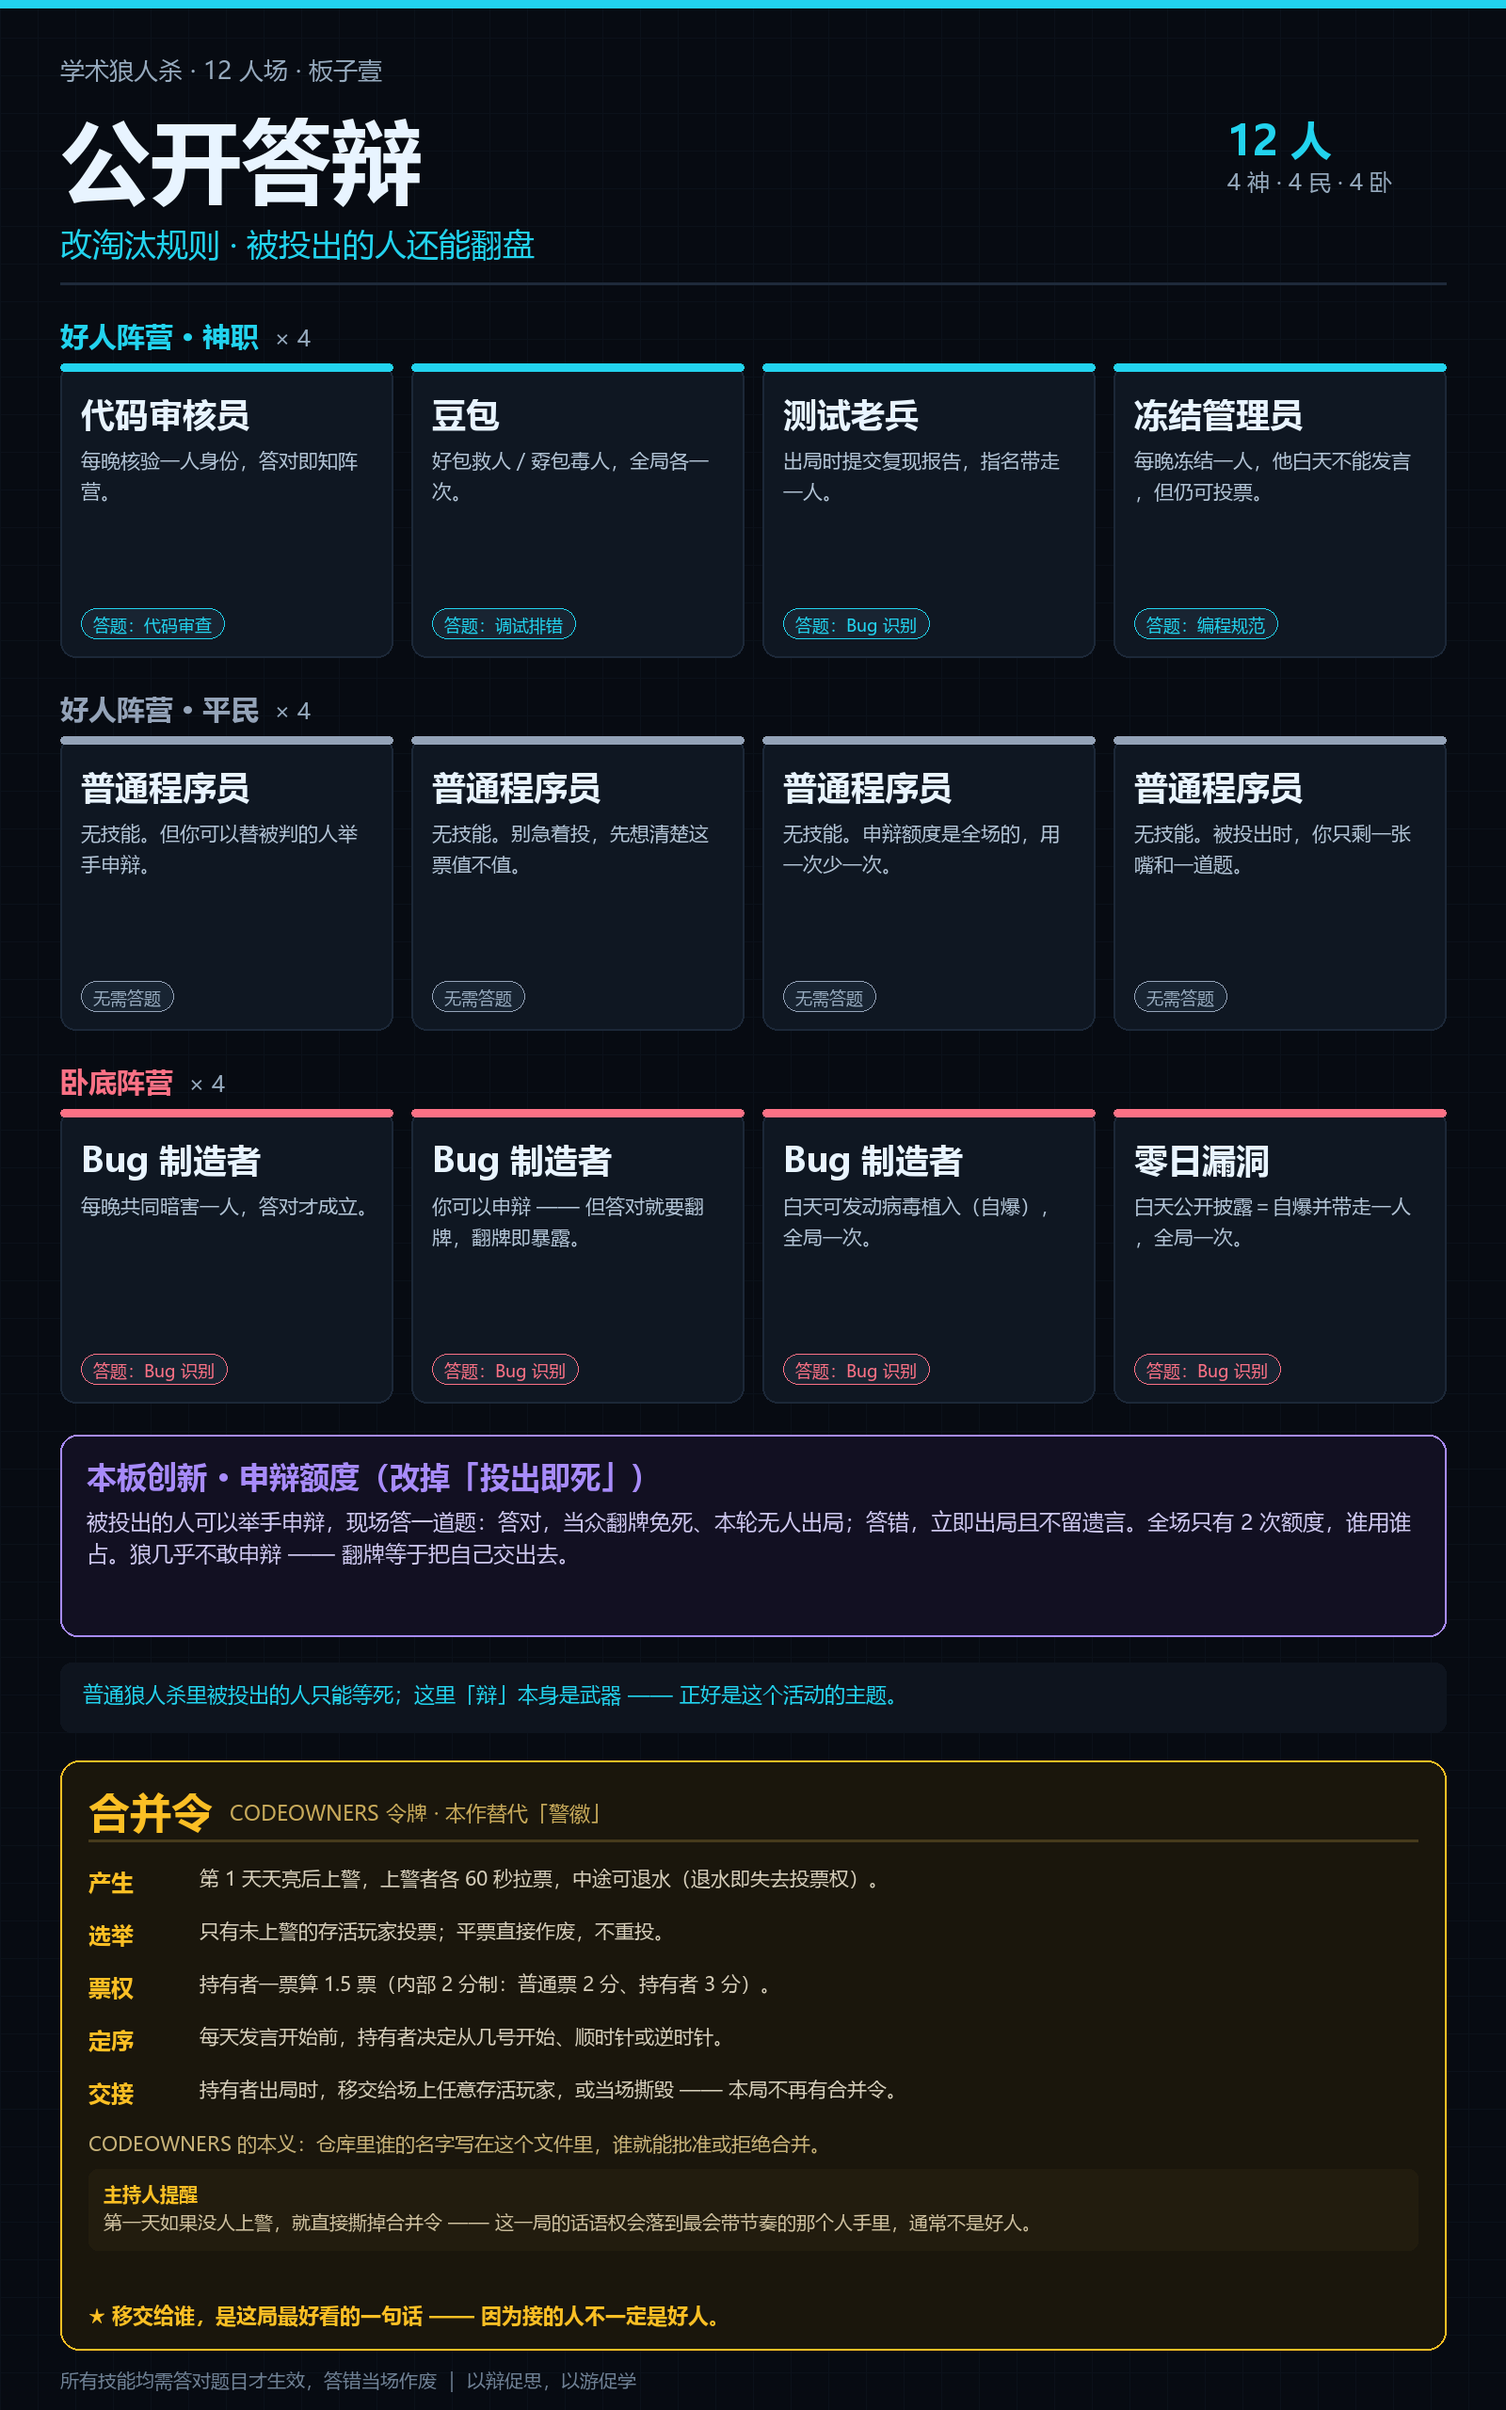
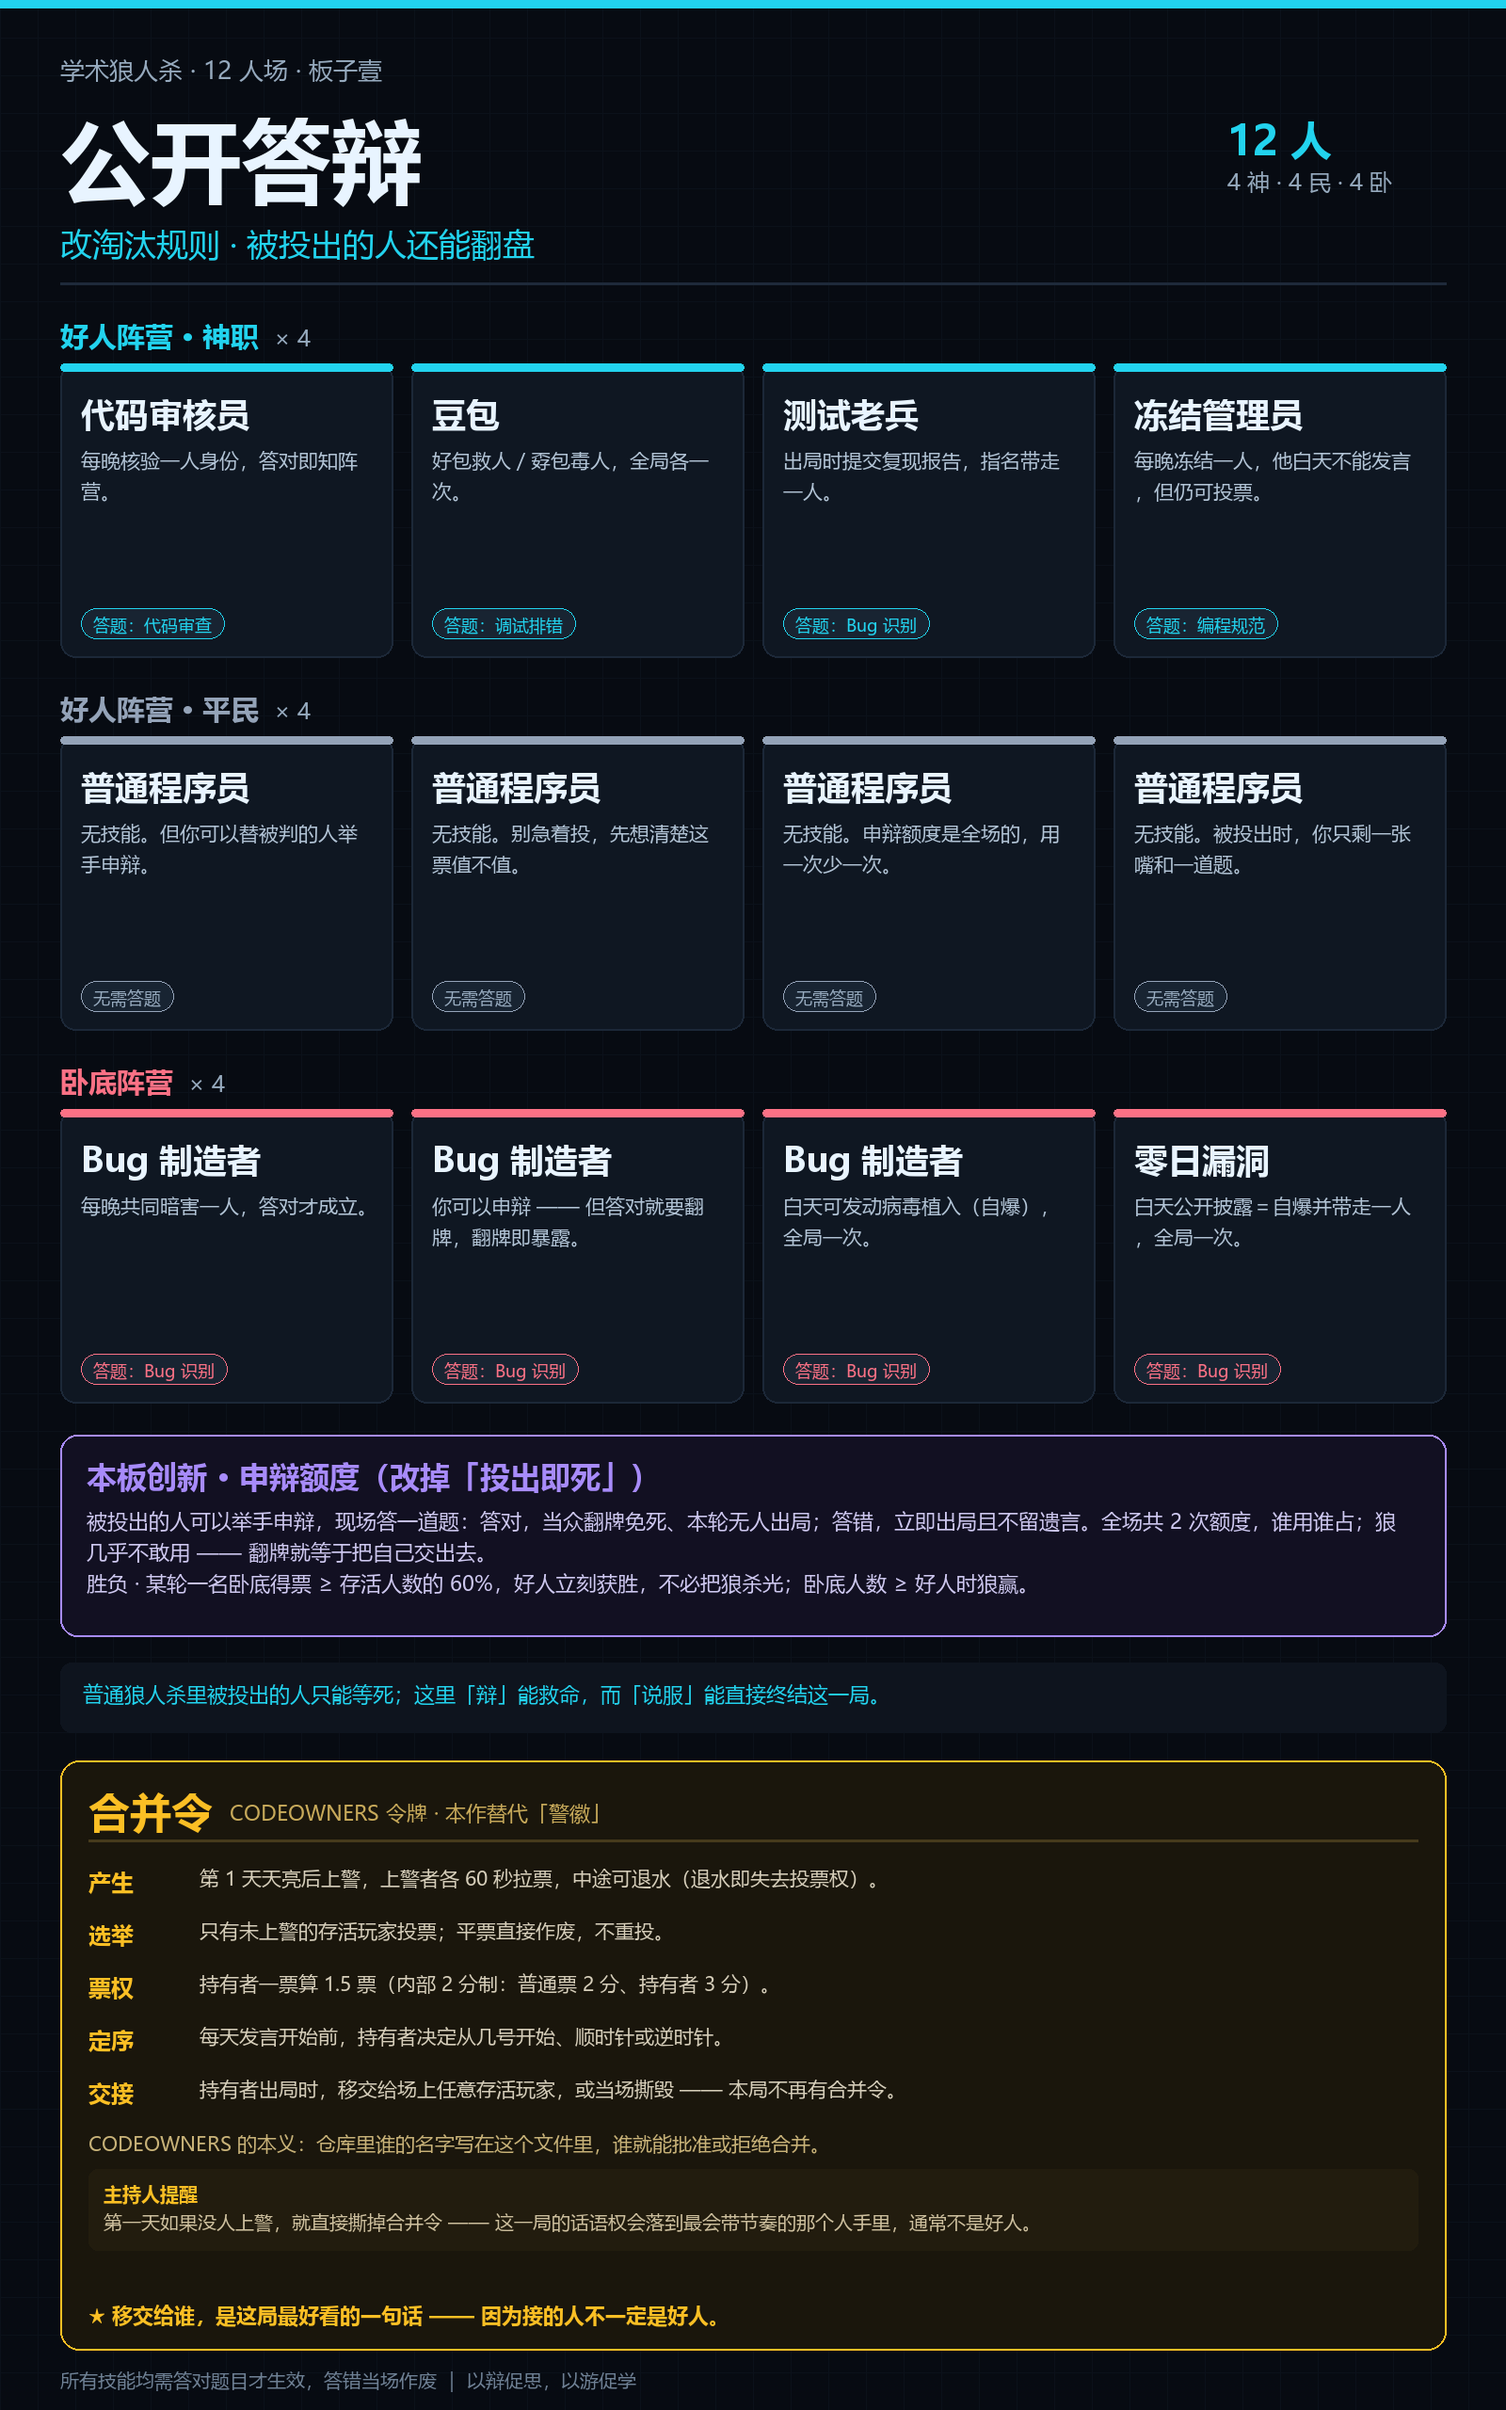
feat: 四套板子各给一条不同的胜负判定 + 修模块边界的刀规则
- 公开答辩: 某轮某狼得票 >=60% 存活人数即胜（共识碾压）
- 后门植入: 好人须清掉全部卧底+被植入者；被植入者活到第5天狼赢
- 模块边界: 连续两轮投出卧底才赢；刀同模块答1题、跨模块连答2题（不再限制刀不了人）
- 核心业务(娱乐场): 屠边

Changed region(s): [[0.0625, 0.625, 0.9375, 0.6562], [0.3438, 0.6875, 0.5938, 0.7188]]

diff --git a/docs/12人场三套板子.md b/docs/12人场三套板子.md
@@ -21,6 +21,19 @@
 
 底层不变的部分：12 人 = 4 神 4 民 4 卧；所有技能必须答对题才生效；共用一枚**合并令**（见文末）。
 
+### 四套的胜负判定各不相同
+
+这一点比角色更重要 —— 如果四套都靠"杀光对面"分胜负，那还是同一款游戏。所以每套给了一条自己的赢法：
+
+| 板子 | 好人怎么赢 | 狼怎么赢 |
+|---|---|---|
+| **公开答辩** | 某一轮里，一名卧底拿到 **≥ 存活人数 60%** 的票 → 立刻获胜，不必把狼杀光 | 卧底人数 ≥ 好人 |
+| **后门植入** | 清掉**全部卧底 + 全部被植入者** | 被植入者活到**第 5 天结束** |
+| **模块边界** | **连续两轮**投票都投出卧底（中间投错一次即清零） | 卧底人数 ≥ 好人 |
+| **核心业务**（娱乐场） | 卧底 4 人全灭 | **6 神全灭 或 2 民全灭**（屠边） |
+
+注意后两条的区别：模块边界奖励**稳定输出**（连续两天抓对），核心业务是**屠边**（打掉任一边就赢）。公开答辩奖励**说服力**（一轮说服全场就终结）。后门植入是**清理隐患**（漏一个后门就输）。
+
 ---
 
 ## 板子壹 ·「公开答辩」
@@ -53,6 +66,13 @@
 **为什么狼不敢用**：答对就要翻牌。翻牌等于把自己交出去。所以这个机制实际上是**好人专属的容错**，狼只能靠"骗别人把额度用光"来获益。
 
 **为什么是 2 次不是每人一次**：额度是公共的，就有"这票值不值得动用额度"的博弈 —— 投一个明显的好人，好人会犹豫要不要救；投一个可能是狼的人，救下来还翻牌，直接吃掉一个狼位。**额度用在哪，本身就是要辩的东西。**
+
+### 胜负 · 共识碾压
+
+- **好人胜**：某一轮投票里，一名卧底拿到 **≥ 存活人数 60%** 的票 → 立刻获胜
+- **狼胜**：卧底人数 ≥ 好人
+
+**为什么加这条**：普通局要投出 4 只狼才赢，等于把"说服"稀释成 4 次机械操作。这里只要**一次压倒性共识**就能终结 —— 于是"怎么把全场拧成一股"变成了真本事。狼的反制也很清楚：**只要拉走两票，共识就破了**，所以狼会拼命制造分歧、挑动对立。
 
 ---
 
@@ -89,6 +109,13 @@
 
 **平衡**：狼少一刀换一个内应，净收益约 +2 票差（少死一个好人 ≈ +1，多一张狼票 ≈ +1）。所以全局只有 1 次、且第 2 夜起才能用，避免开局就崩。
 
+### 胜负 · 清理隐患
+
+- **好人胜**：清掉**全部卧底 + 全部被植入者**
+- **狼胜**：被植入者活到**第 5 天结束**
+
+**为什么这么定**：被植入的人是"活着的定时炸弹"—— 他是好人，但你留着他，他的票一直在帮狼。好人被迫在"他是好人我不忍心投"和"不投就输"之间做选择。**这就是技术债的真实体感：明明知道该还，但还起来疼。**
+
 ---
 
 ## 板子叁 ·「模块边界」
@@ -108,16 +135,23 @@
 | 豆包 | 好包救人 / 孬包毒人，全局各一次 | 调试排错 |
 | 测试老兵 | 出局时提交复现报告，指名带走一人 | Bug 识别 |
 | **CI 哨兵** | 昨夜死者与你同模块时，天亮公开「红灯」 | 编程规范 |
-| Bug 制造者 ×3 | **只能暗害与自己同模块的人**，答对才成立 | Bug 识别 |
-| **影子分支** | 跨越模块动手，**每 2 晚只能动一次** | 调试排错 |
+| Bug 制造者 ×3 | 刀**同模块**的人答对 1 题即可；刀**别的模块**要连答 2 题 | Bug 识别 |
+| **影子分支** | 跨模块也只要答 1 题，但**每 2 晚只能动一次** | 调试排错 |
 
 ### 核心机制 · 三个模块
 
-- **狼只能在同模块内下手** → 狼的杀伤范围被他的座位限制，狼必须分布在不同模块才能覆盖全场
+- **刀同模块便宜、跨模块贵** → 改自己模块的代码答 1 题，改别人的模块得连答 2 题（这就是真实的跨团队成本）
 - **验人也被限制在同模块** → 好人拿到的也只是碎片
 - **白天先分组讨论 5 分钟，再合场 10 分钟** → 每个模块只知道自己的事
 
 **为什么这样反而更好玩**：狼的分布决定了哪些模块"安全"。如果连续三天只有后端死人，那么后端那几个人就一定有问题 —— 这是纯靠**空间推理**得出的结论，跟发言水平无关。同时狼也能反过来利用：故意在某个模块连杀，把好人的注意力钉死在那儿。
+
+### 胜负 · 连续绿灯
+
+- **好人胜**：**连续两轮**投票都投出卧底 —— 中间投错一次，计数清零，从头再来
+- **狼胜**：卧底人数 ≥ 好人
+
+**为什么这么定**：模块边界本来是"信息碎片化"，如果还按"杀光"判胜负，好人在碎片信息下几乎必输。改成"连续两轮抓对"，等于奖励**稳定判断**而不是运气 —— 抓到一次可能是蒙的，连着两次才是真看懂了。
 
 **主持人负担**：需要按桌分组，每桌 4 人。12 人座次不好凑的话，可以先按抽签排好再开机。
 
